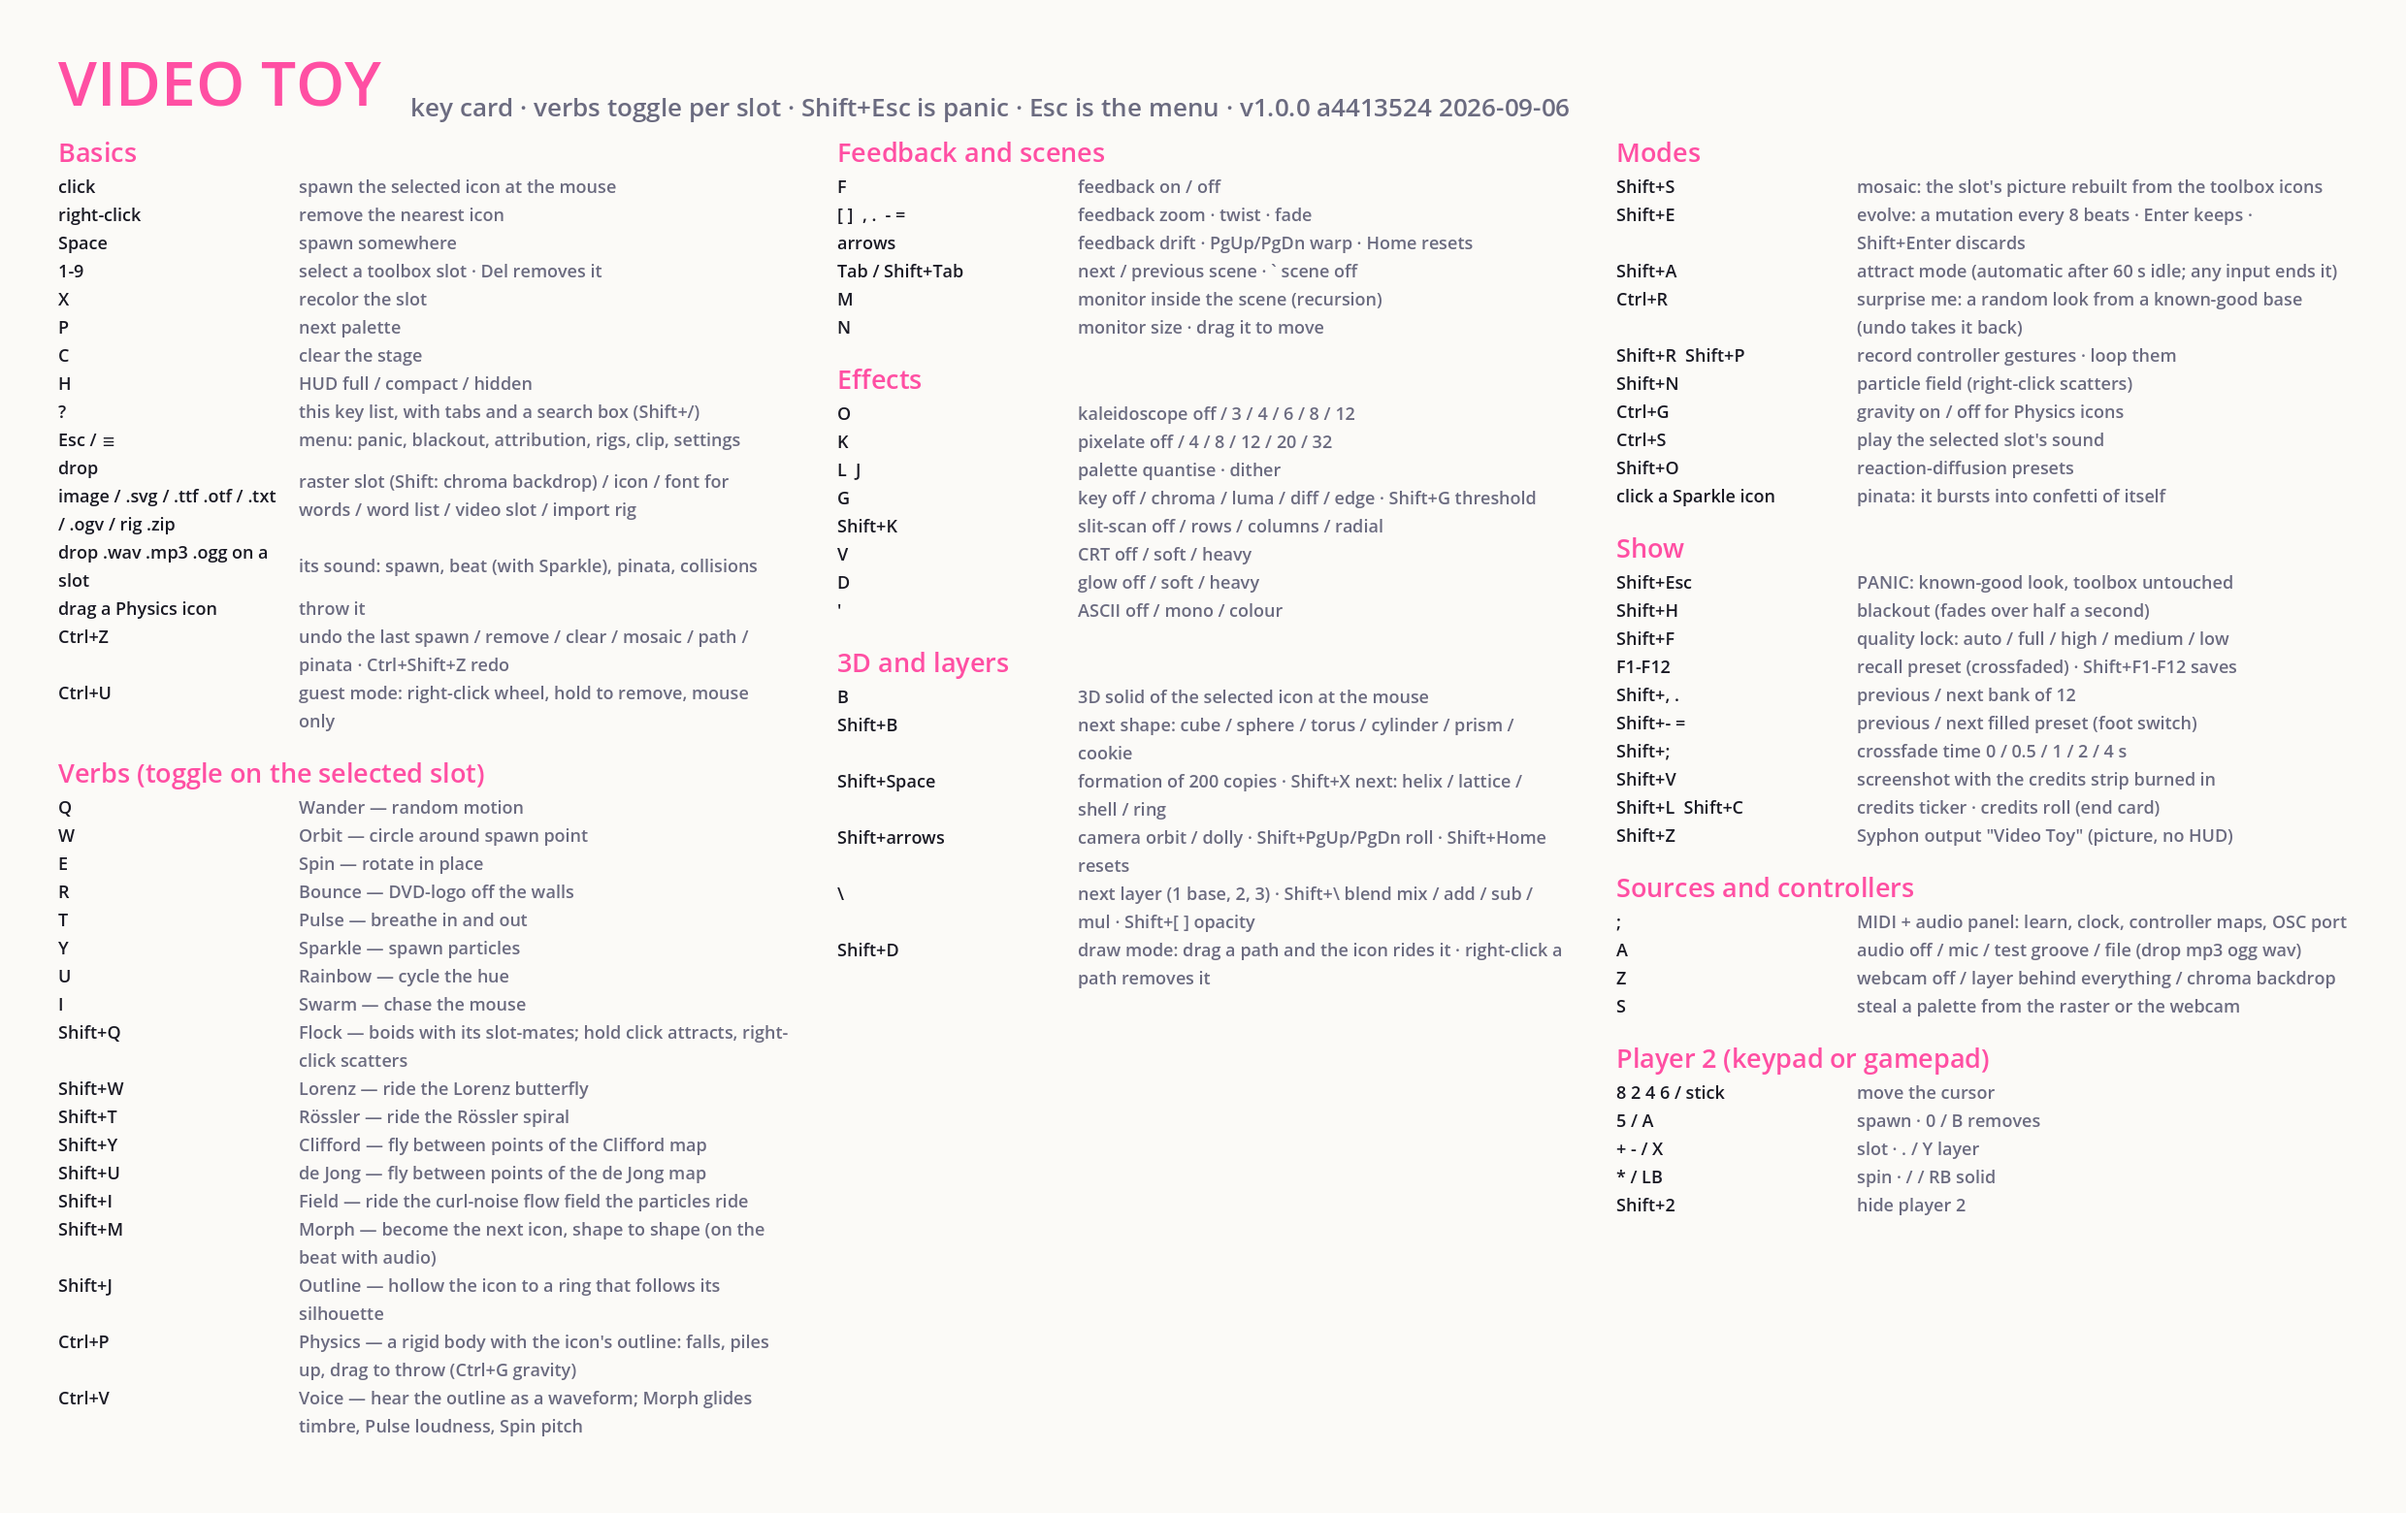
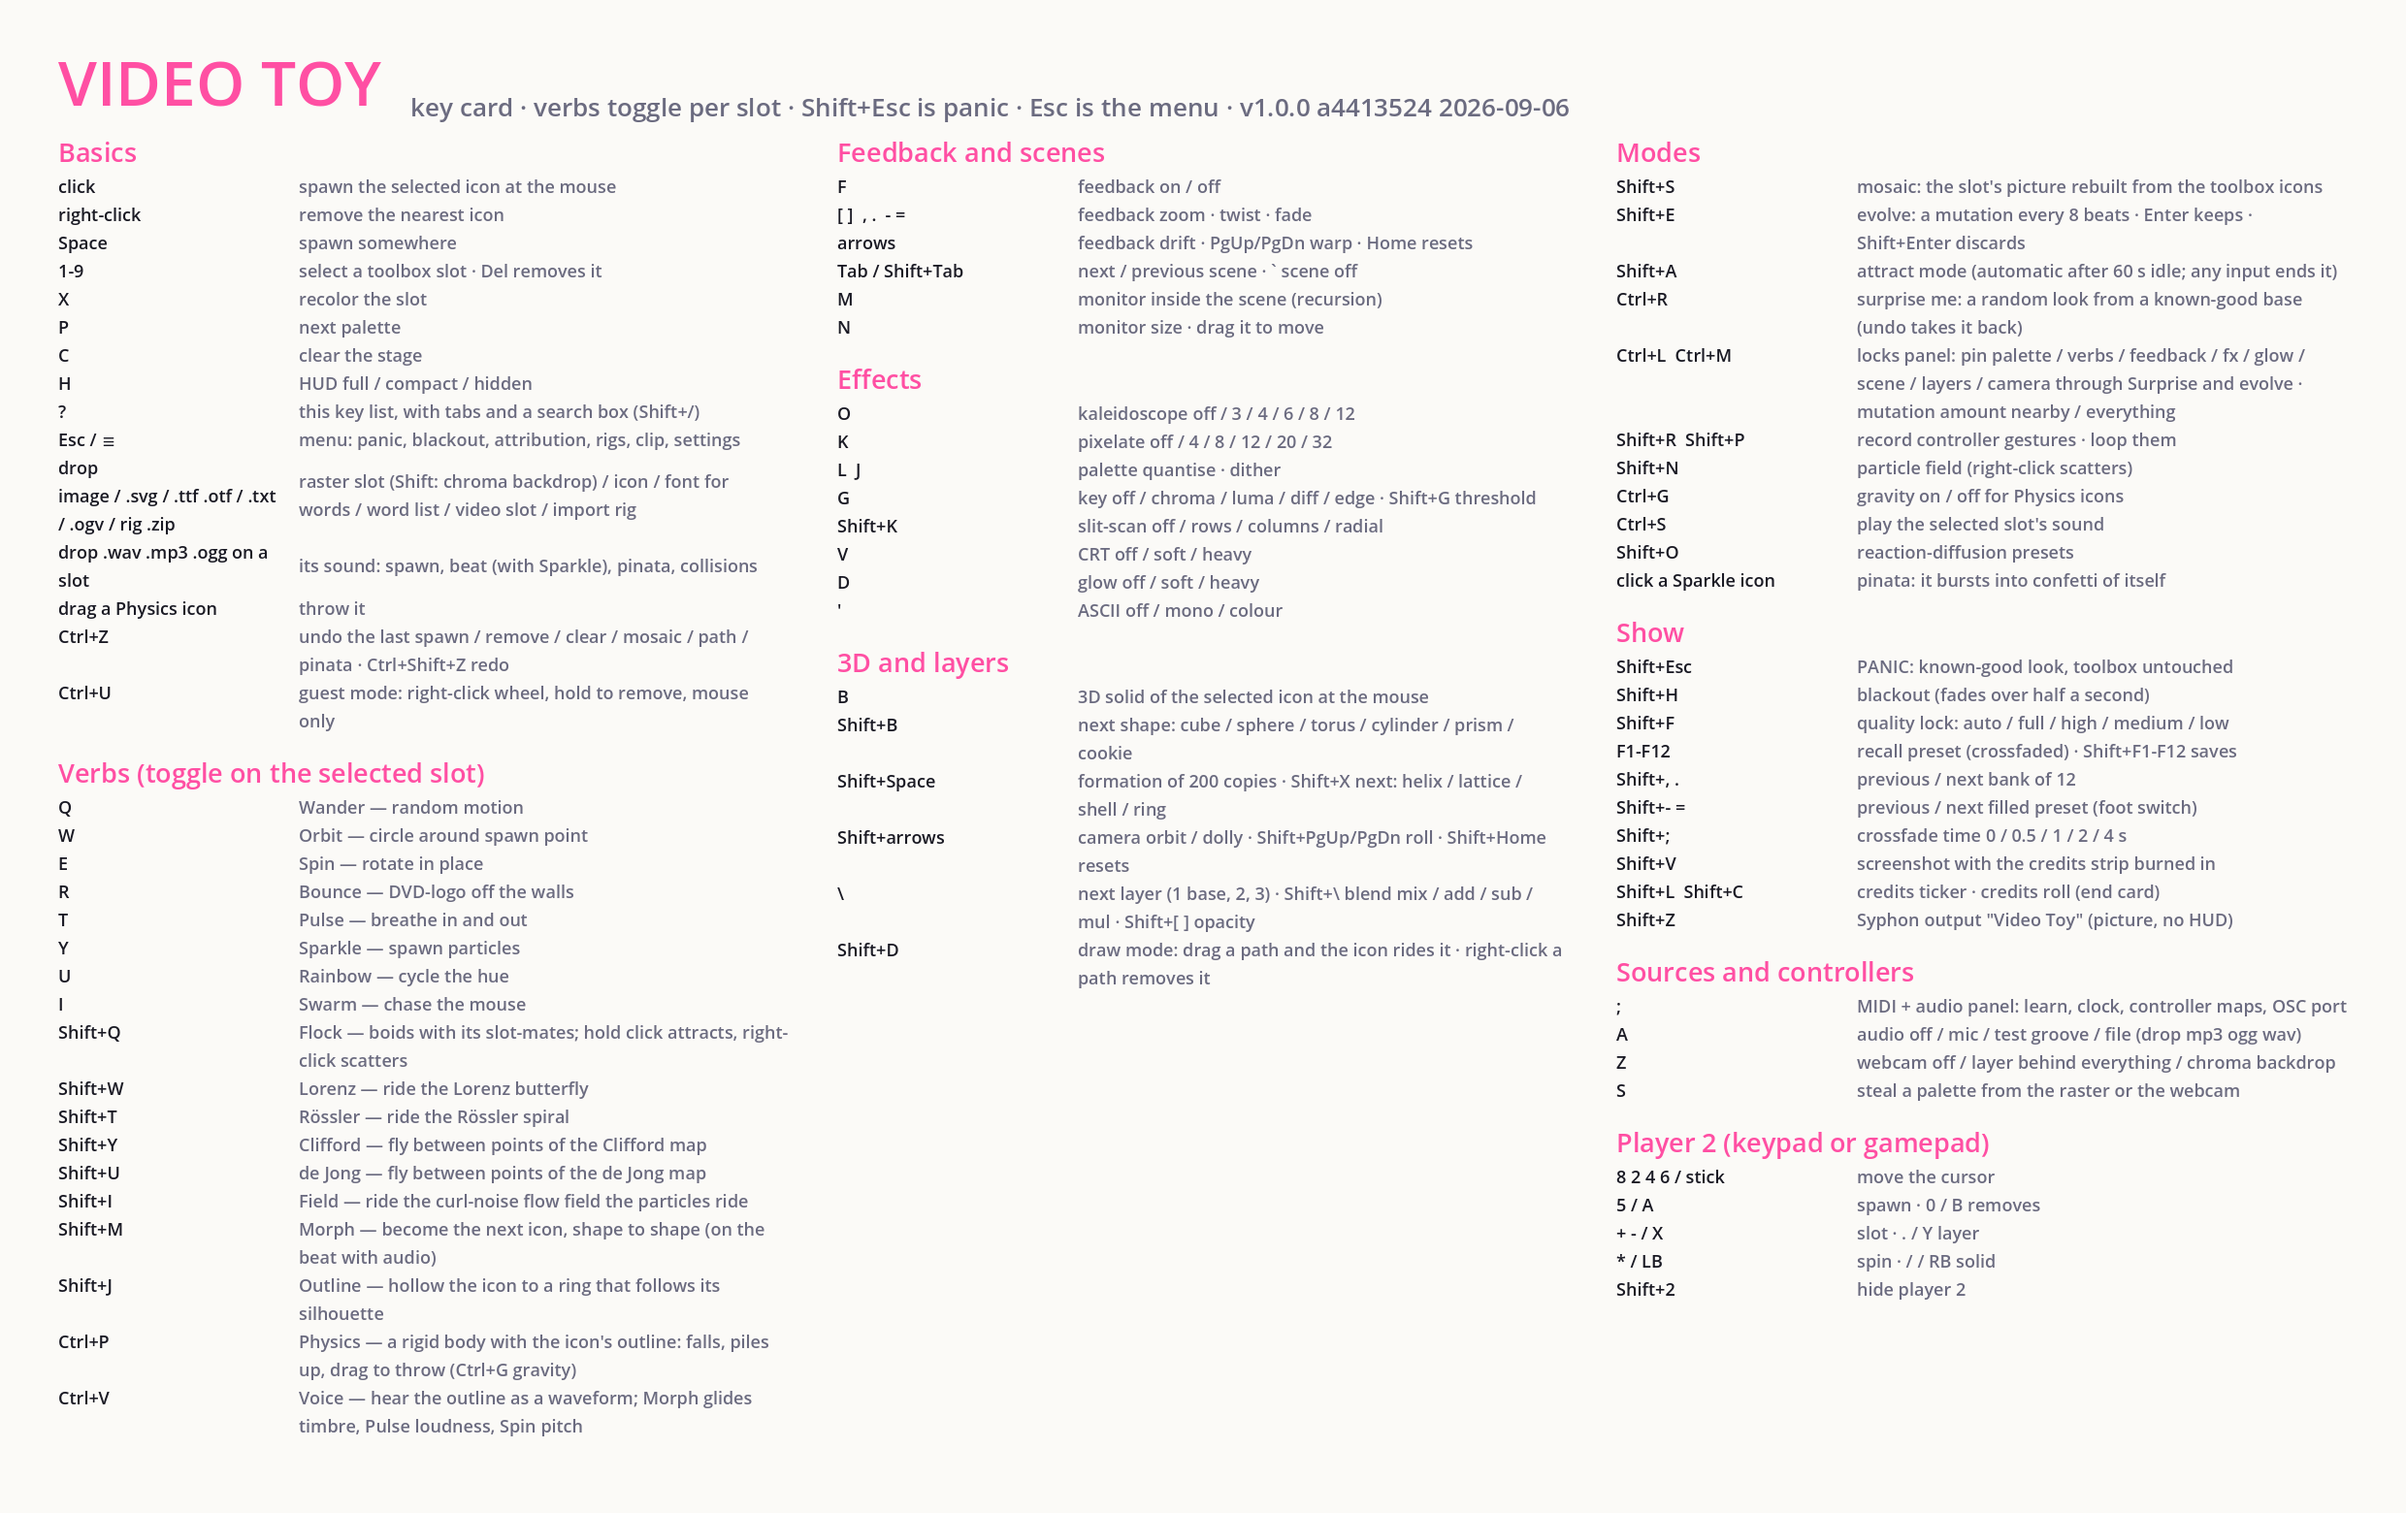
Lock and mutate
src/locks.gd (pure): eight sections — palette, verbs, feedback, fx, glow,
scene, layers, camera — each mutation kind's section, the snapshot keys a
lock keeps, and a mutation amount that maps to one nearby nudge up to six
changes. The stage keeps locks and the amount in settings and the HUD;
Ctrl+L opens a panel of lock switches and the amount slider, Ctrl+M cycles
the amount; each lock is an action, the amount a param. mutate() skips
kinds whose section is locked and scales its nudges by the amount;
surprise() takes a partial snapshot of the locked sections before the
panic and re-applies it after, so "keep the colours, change the rest" is
one button. RESEARCH-5 item 2.

Smoke: the kind-to-section rule, keep() extraction, the count ladder,
the description. Self-test: with palette and verbs locked four surprises
leave both untouched while the rest changes; with all but camera locked
thirty mutations are all camera; fully locked says so; the amount and the
panel round-trip. A locks capture step for the eye.

Changed region(s): [[0.652, 0.2154, 0.9625, 0.8615], [0.652, 0.2154, 0.7141, 0.4615]]

diff --git a/README.md b/README.md
@@ -248,6 +248,15 @@ verbs, effects and presets, and the help key; click or Space advances, Esc skips
 comes back unless Settings → Tour or Esc menu → **Take the tour** asks for it. Captures and
 self-tests never see it.
 
+## Lock and mutate
+
+**Ctrl+L** opens the locks panel: pin **palette, verbs, feedback, fx, glow, scene, layers** or
+**camera**, and Surprise me and evolve vary everything else — the locked sections ride through a
+surprise untouched (it says "kept …" in the HUD). **Ctrl+M** cycles the **mutation amount**:
+nearby (one small mutation, small nudges) through to everything (six). Locks and the amount
+persist in settings, show in the HUD, and are learnable actions and a param, so a pad row can
+be "keep the colours, change the rest".
+
 ## Physics and sounds
 
 The **Physics** verb (**Ctrl+P**) turns the icon into a rigid body with its own outline

diff --git a/docs/RESEARCH-5.md b/docs/RESEARCH-5.md
@@ -34,8 +34,9 @@ description of this toy. The gaps are where to go next.
 
 1. **Modulators into the learn table** — built: `~` per param row, seven shapes, depth, rate,
    centre from the knob, saved with the map.
-2. **Lock and mutate**: per-section locks (palette, feedback, fx, verbs, scene, layers,
-   camera) that Surprise and evolve respect; a "nearby" amount so mutation can be small.
+2. **Lock and mutate** — built: Ctrl+L panel with eight section locks that Surprise and evolve
+   respect, Ctrl+M / a param for the amount (one nearby nudge to six wild changes), persisted,
+   in the HUD, as actions.
 3. **Feedback routing**: per-layer "re-enters the loop" switches, a frame-delay tap (1..N
    frames), blur / sharpen and colour drift inside the loop, displacement by the scene or
    webcam.

diff --git a/docs/SHOW.md b/docs/SHOW.md
@@ -71,6 +71,8 @@ The night-before and day-of checklist for Knobcon, a stream or a party. The keys
   of fifths, a bolt is a buzz; add Morph and the timbre glides). Keep it to a slot or two.
 - **Ctrl+U** is guest mode: hand over the mouse, no keyboard needed (right-click is the wheel,
   a hold removes). Turn it off before you go back to the keyboard-and-pads flow.
+- **Ctrl+L** locks the sections you like (palette, verbs, feedback…) so surprise and evolve only
+  touch the rest; **Ctrl+M** makes them nudge instead of leap.
 - **Ctrl+R** is "surprise me" — the thing to hand a guest — and **Ctrl+Z** takes it, or any
   stray spawn / clear, back.
 - Let guests play: **Shift+2** hides player 2's cursor when nobody is on the keypad / gamepad.

diff --git a/docs/KEYS.md b/docs/KEYS.md
@@ -89,6 +89,7 @@ The printable version is [key-card.png](key-card.png).
 | `Shift+E` | evolve: a mutation every 8 beats · Enter keeps · Shift+Enter discards |
 | `Shift+A` | attract mode (automatic after 60 s idle; any input ends it) |
 | `Ctrl+R` | surprise me: a random look from a known-good base (undo takes it back) |
+| `Ctrl+L  Ctrl+M` | locks panel: pin palette / verbs / feedback / fx / glow / scene / layers / camera through Surprise and evolve · mutation amount nearby / everything |
 | `Shift+R  Shift+P` | record controller gestures · loop them |
 | `Shift+N` | particle field (right-click scatters) |
 | `Ctrl+G` | gravity on / off for Physics icons |
